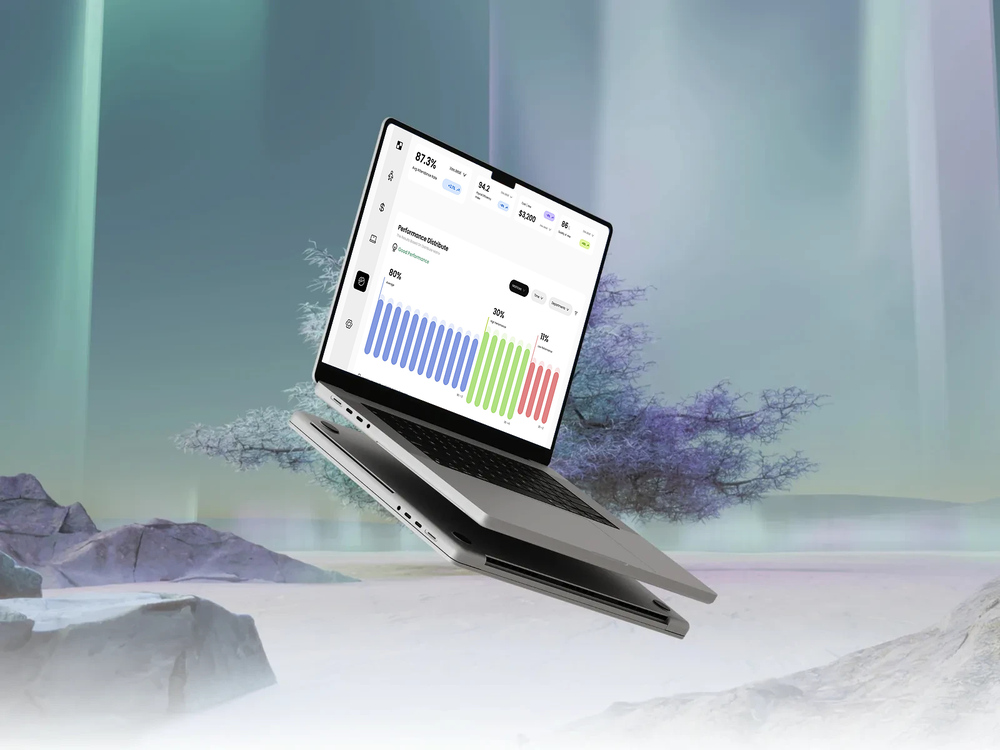
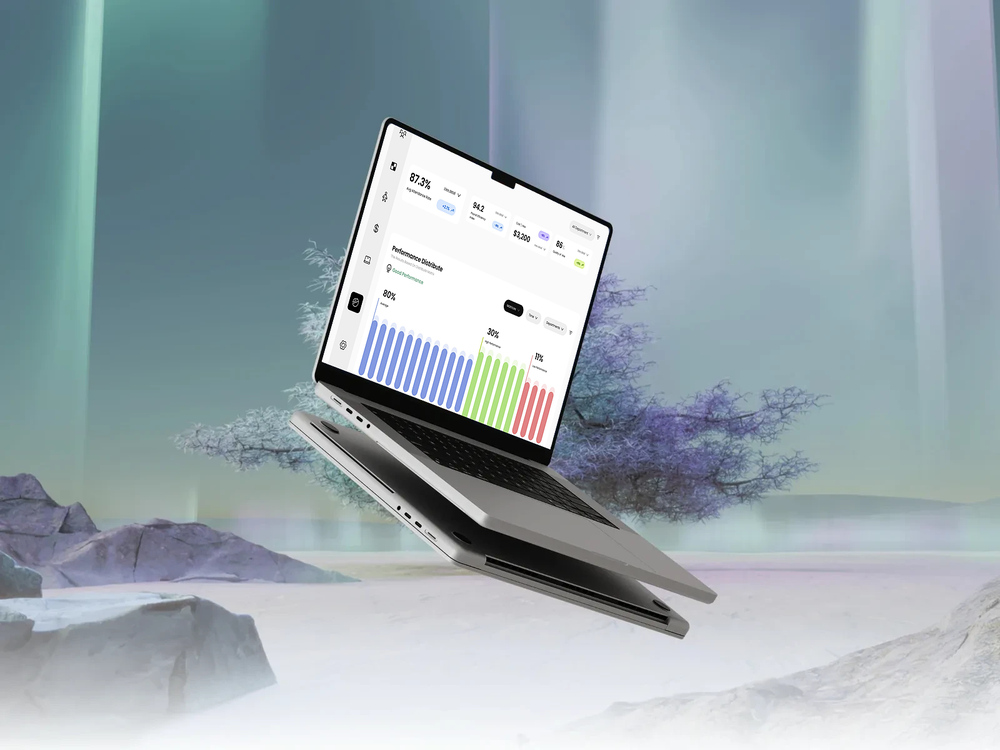
Floating laptop: show 100 px more from the top of the Analytics page
Claude-Session: https://claude.ai/code/session_01FdYAnoP1AuAPuCnLWf7gdc

Changed region(s): [[0.341, 0.184, 0.589, 0.5827]]

diff --git a/behance-cover/mockups/set15q.py b/behance-cover/mockups/set15q.py
@@ -6,7 +6,7 @@ from PIL import Image, ImageDraw, ImageEnhance, ImageFilter
 I = '/tmp/claude-0/-home-user-claude-Ai-website-1/fd49522e-f0ff-52ed-b6c7-08cca43cc4fd/images/'
 Q = [(621.9, 195.1), (976.6, 365.2), (880.4, 719.2), (514.4, 578.9)]
 R = 1.547
-SCREENS = {'analytics': ('173.jpg', 540)}
+SCREENS = {'analytics': ('173.jpg', 440)}   # 100 px more from the top of the page
 def coeffs(dst, pts):
     A, B = [], []
     for (x, y), (u, v) in zip(dst, pts):
